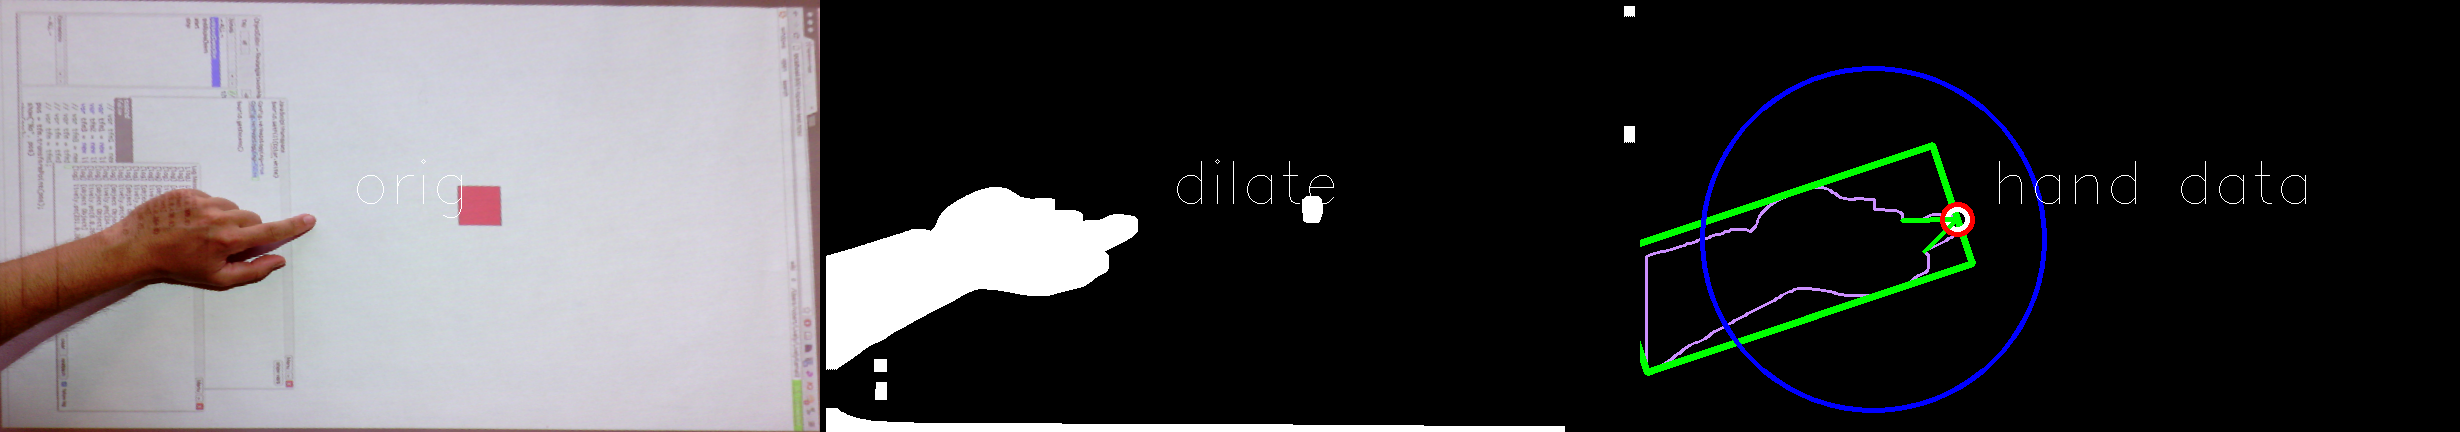
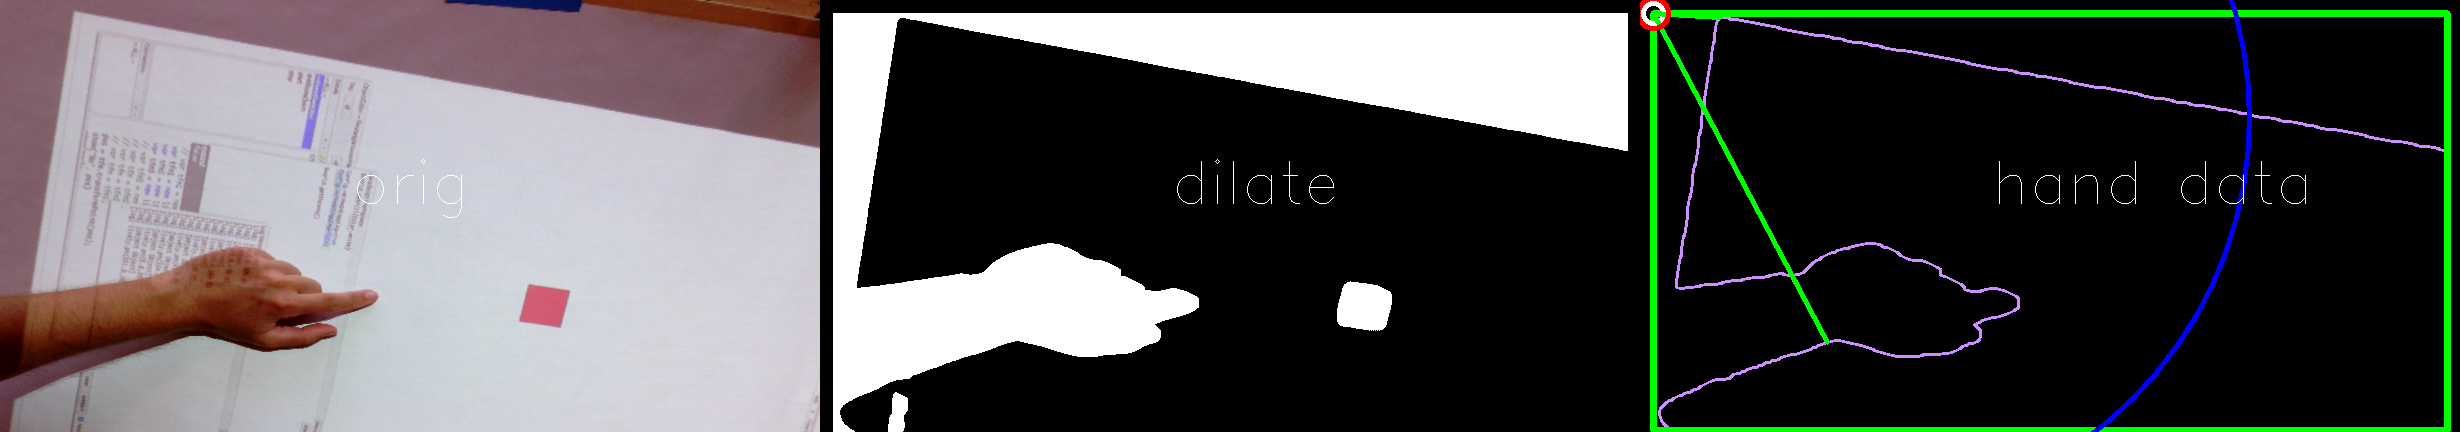
for brighter environments

diff --git a/src/main.cpp b/src/main.cpp
@@ -22,7 +22,7 @@ int main(int argc, char** argv)
 {
   Mat frame;
   bool debug = true;
-  int videoDevNo = 1;
+  int videoDevNo = 0;
 
   // cv::Size tfmedSize(432, 820);
   cv::Size tfmedSize(820, 432);
@@ -38,11 +38,7 @@ int main(int argc, char** argv)
   {
       cv::VideoCapture cap = cv::VideoCapture(videoDevNo);
       cap.read(frame);
-      cv::imwrite("/Users/robert/Lively/LivelyKernel2/opencv-test/test-images/foo.png", frame);
-      for (;;) {
-        imshow("debug", frame);
-        if (cv::waitKey(30) >= 0) break;
-      }
+      cv::imwrite("/Users/robert/Lively/LivelyKernel2/opencv-test/test-images/other-webcam-issue-2.png", frame);
   }
   else if (mode == "recognize-screen-video")
   {
@@ -58,7 +54,7 @@ int main(int argc, char** argv)
   }
   else if (mode == "transform-screen-file")
   {
-    vector<string> testFiles{"/Users/robert/Lively/LivelyKernel2/opencv-test/test-images/faded-screen.png"};
+    vector<string> testFiles{"/Users/robert/Lively/LivelyKernel2/opencv-test/test-images/other-webcam.png"};
     // vector<string> testFiles = findTestFiles(regex("^hand-test-white-[0-9]+\\.[a-z]+$"));
     for (auto file : testFiles) {
       Mat input = resizeToFit(cv::imread(file, CV_LOAD_IMAGE_COLOR), 700, 700); 
@@ -71,24 +67,32 @@ int main(int argc, char** argv)
   }
   else if (mode == "transform-screen-and-recognize-file")
   {
-    vector<string> testFiles{"/Users/robert/Lively/LivelyKernel2/opencv-test/test-images/hand-test-16.png"};
+    vector<string> testFiles{"/Users/robert/Lively/LivelyKernel2/opencv-test/test-images/other-webcam-issue-2.png"};
     // vector<string> testFiles = findTestFiles(regex("^hand-test-white-[0-9]+\\.[a-z]+$"));
     for (auto file : testFiles) {
       cv::Mat input = resizeToFit(cv::imread(file, CV_LOAD_IMAGE_COLOR), 700, 700);
       // cv::Mat proj = screenProjection(input, tfmedSize, true);
 
+      // cv::Mat proj = cv::Mat::zeros(3,3, CV_32FC1);
+      // proj.at<float>(0,0) = 1.311824869288347;
+      // proj.at<float>(0,1) = 0.5819373495118125;
+      // proj.at<float>(0,2) = -245.2718043772442;
+      // proj.at<float>(1,0) = -0.2655269490085852;
+      // proj.at<float>(1,1) = 1.286784500521986;
+      // proj.at<float>(1,2) = 19.15879094694175;;
+      // proj.at<float>(2,0) = -0.0002367759237758272;
+      // proj.at<float>(2,1) = 0.0005972594927079796;
+      // proj.at<float>(2,2) = 1;
+
       cv::Mat proj = cv::Mat::zeros(3,3, CV_32FC1);
- 
-      proj.at<float>(0,0) = 1.311824869288347;
-      proj.at<float>(0,1) = 0.5819373495118125;
-      proj.at<float>(0,2) = -245.2718043772442;
-      
-      proj.at<float>(1,0) = -0.2655269490085852;
-      proj.at<float>(1,1) = 1.286784500521986;
-      proj.at<float>(1,2) = 19.15879094694175;;
-      
-      proj.at<float>(2,0) = -0.0002367759237758272;
-      proj.at<float>(2,1) = 0.0005972594927079796;
+      proj.at<float>(0,0) = 1.652389079784966;
+      proj.at<float>(0,1) = 0.5326780287383337;
+      proj.at<float>(0,2) = -222.7898690137106;;
+      proj.at<float>(1,0) = -0.0363833634945249;
+      proj.at<float>(1,1) = 1.649966529588601;
+      proj.at<float>(1,2) = -15.15386596733211;
+      proj.at<float>(2,0) = -8.42207531049395e-05;
+      proj.at<float>(2,1) = 0.001051777679467157;
       proj.at<float>(2,2) = 1;
 
 
@@ -125,6 +129,7 @@ int main(int argc, char** argv)
   }
   else if (mode == "convert-video") {
     cv::VideoCapture cap = cv::VideoCapture(videoDevNo);
+    bool debug = true;
     Mat frame;
 
     // 1. define screen area...
@@ -139,7 +144,7 @@ int main(int argc, char** argv)
       cap >> frame;
       // show transformed area to check the projection...
       frame = resizeToFit(frame, 700, 700);
-      proj = screenProjection(frame, tfmedSize, true);
+      proj = screenProjection(frame, tfmedSize, debug);
       if ((proj.at<int>(0,0) != 0) && (proj.at<int>(0,1) != 0)) break;
       if (cv::waitKey(30) >= 0) break;
     }
@@ -152,16 +157,24 @@ int main(int argc, char** argv)
       if (cv::waitKey(30) >= 0) break;
     }
 
-    for(;;)
+    std::chrono::system_clock clock;
+    auto t = clock.now();
+    while(1)
     {
-      cap >> frame;
+      cap.read(frame);
       // std::cout << timeToRunMs([&](){
-        Mat output = transformFrame(resizeToFit(frame, 1000, 1000), tfmedSize, proj);
-        auto handData = processFrame(output, output, true);
+        Mat output = transformFrame(resizeToFit(frame, 700, 700), tfmedSize, proj);
+        auto handData = processFrame(output, output, debug);
         std::cout << frameWithHandsToJSONString(handData) << std::endl;
       // }).count() << std::endl;
       imshow("out", resizeToFit(getAndClearRecordedImages(), 1400,1400));
-      if (cv::waitKey(30) >= 0) break;
+      if (cv::waitKey(10) >= 0) break;
+
+      // auto now = clock.now();
+      // auto duration = std::chrono::duration_cast<std::chrono::milliseconds>(now - t);
+      // t = now;
+      // std::cout << duration.count() << std::endl;
+
     }
   }
 

diff --git a/src/vision/hand-detection.cpp b/src/vision/hand-detection.cpp
@@ -59,7 +59,7 @@ Mat prepareForContourDetection(
     // if (renderDebugImages) recordImage(dst, "blur");
 
     // -=-=-=-=-=-=-=-=-=-=-=-=-=-=-=-=-=-=-=-=-=-=-=-=-=-=-=-
-    threshold(dst, dst, 120, 255, CV_THRESH_BINARY_INV);
+    threshold(dst, dst, 100, 255, CV_THRESH_BINARY_INV);
     // threshold(dst, dst, 100, 255, CV_THRESH_BINARY);
     // adaptiveThreshold(dst, dst, 115, ADAPTIVE_THRESH_MEAN_C, CV_THRESH_BINARY, 9, -3);
     // adaptiveThreshold(dst, dst, 165, ADAPTIVE_THRESH_GAUSSIAN_C, CV_THRESH_BINARY, 9, -3);
@@ -74,8 +74,8 @@ Mat prepareForContourDetection(
     rectangle(dst, Point(0, 0), Point(cropWidth, size.height), black, CV_FILLED);
     rectangle(dst, Point(0, 0), Point(size.width, cropWidth), black, CV_FILLED);
     rectangle(dst, Point(size.width - cropWidth, 0), Point(size.width, size.height), black, CV_FILLED);
-    rectangle(dst, Point(0, size.height), Point(size.width, size.height), black, CV_FILLED);
-    if (renderDebugImages) recordImage(dst, "dilate");
+    rectangle(dst, Point(0, size.height - cropWidth), Point(size.width, size.height), black, CV_FILLED);
+    // if (renderDebugImages) recordImage(dst, "dilate");
 
     // -=-=-=-=-=-=-=-=-=-=-=-=-=-=-=-=-=-=-=-=-=-=-=-=-=-=-=-
     /// Canny detector
@@ -94,7 +94,7 @@ HandContour findHandContour(
 {
   // find which contour points are on the image's edge. This is where the arm
   // starts
-  int offset = 15;
+  int offset = 35;
   Rect innerRect(offset, offset,
     fullImageBounds.width-2*offset, fullImageBounds.height-2*offset);
   
@@ -274,8 +274,6 @@ vector<Finger> findFingerTips(
     }
   }
 
-  recordImage(debug, "foo");
-
   // for (int i = 0; i < defects.size(); i++)
   // {
   //   Point before = i > 0 ? defects[i-1].onHullEnd : Point(0,0);
@@ -318,7 +316,7 @@ vector<HandData> findContours(const Mat &src, Mat &contourImg, bool renderDebugI
     vector<vector<Vec4i> > defects(contours.size());
     vector<vector<Moments>> momentsVec(contours.size());
     Rect imageBounds = Rect(0,0, src.cols, src.rows);
-    long minArea = ((imageBounds.width * imageBounds.height) / 100) * 5; // 5%
+    long minArea = ((imageBounds.width * imageBounds.height) / 100) * 2; // 5%
     int innerImageOffset = 100;
     Rect innerImageBounds {
       Point(innerImageOffset, innerImageOffset),

diff --git a/src/vision/quad-transform.cpp b/src/vision/quad-transform.cpp
@@ -82,7 +82,7 @@ std::vector<Point2f> findCorners(vector<Vec4i> lines)
                   p2(lines[j][0],lines[j][1]);
           float angle = radToDeg(angleBetween(p1, p2, pt));
           // std::cout << angle << std::endl;
-          if ((angle > 70) && (angle < 130)) corners.push_back(pt);
+          if ((angle > 60) && (angle < 140)) corners.push_back(pt);
       }
     }
   }

diff --git a/src/vision/screen-detection.cpp b/src/vision/screen-detection.cpp
@@ -16,7 +16,7 @@ void prepareImage(const Mat &imgIn, Mat &imgOut)
   if (imgIn.type() == CV_8UC3) cvtColor(imgIn, imgOut, CV_BGR2GRAY);
   else imgIn.copyTo(imgOut);
   medianBlur(imgOut, imgOut, 21);
-  threshold(imgOut, imgOut, 150, 255, CV_THRESH_BINARY);
+  threshold(imgOut, imgOut, 100, 255, CV_THRESH_BINARY);
   // cvtColor(imgOut, imgOut, CV_RGB2GRAY);
 }
 
